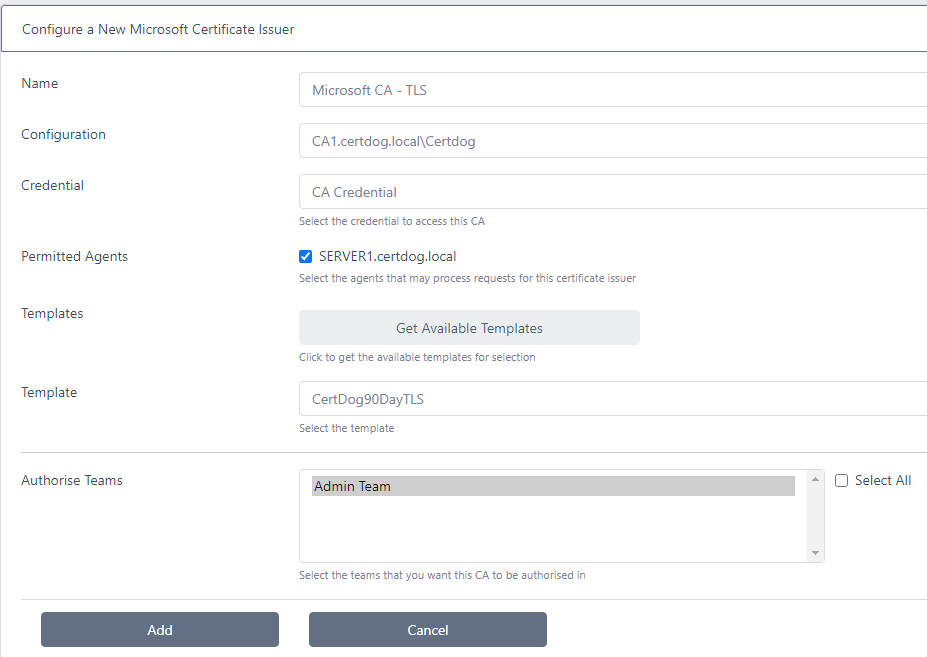
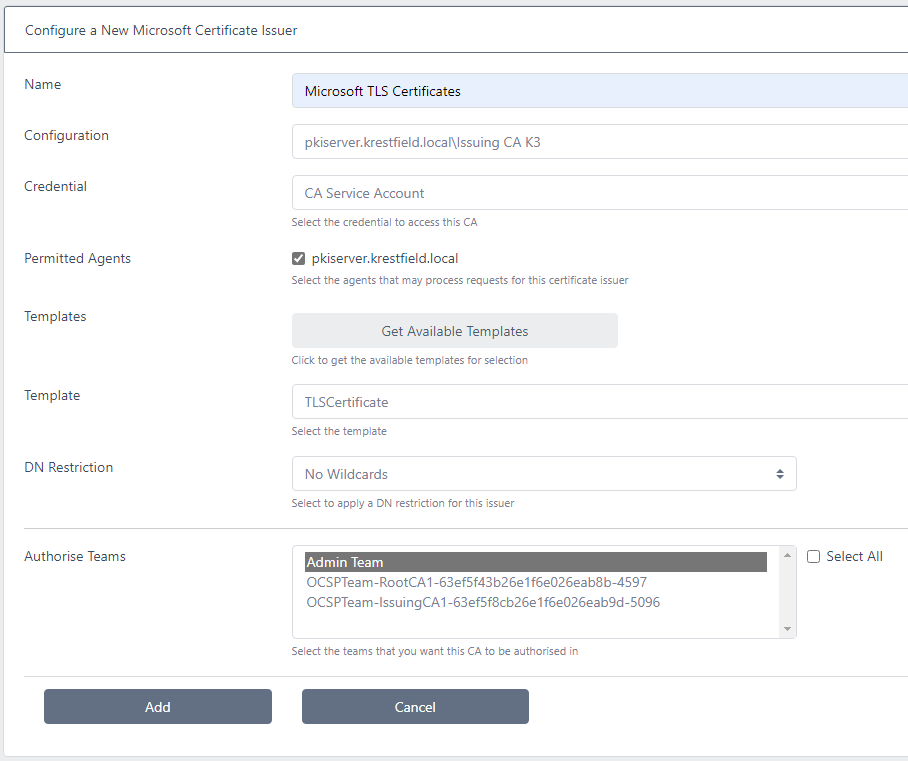
Added DN Restrictions documentation for version 1.9

diff --git a/certdog/errors v solutions.md b/certdog/errors v solutions.md
@@ -258,3 +258,103 @@ Checking the log file here ``[certdog install]\mongodb\mongod.log`` there is an 
 <u>Solution</u>
 
 The database is very sensitive to file formats. If the certificate PEM file (``[certdog install]\config\sslcerts\dbssl.pem``) was saved as UNICODE, the database will not read it correctly. Open the certificate file and save as UTF-8 using a suitable text editor
+
+
+
+<hr/>
+
+### Get "CA does not have any certificates configured" when requesting a certificate
+
+<u>Error Details</u>
+
+The error message ``Error Generating Certificate``, ``Unable to process certificate request as the CA specified: IssuingCA1 does not have any certificates configured``   is displayed when attempting to request a certificate from a Microsoft CA  
+
+Checking the log you see an entry such as:
+
+```
+There was an error whilst attempting to retrieve the CA certificates from the CA. Unable to obtain certificates from the CA. CCertAdmin::GetCAProperty: Access is denied. 0x80070005 (WIN32: 5 ERROR_ACCESS_DENIED)
+```
+
+which is reported from the agent when the Certificate Issuer is configured
+
+
+
+<u>Solution</u>
+
+This is a permissions issue. The account used by the agent does not have the correct permissions on the CA. To rectify, follow the guide here: https://krestfield.github.io/docs/pki/setting_adcs_template_permissions.html and also ensure that the account has **Issue and Manage Certificates** and **Request Certificates** permissions on the CA itself (managed via Properties)
+
+One the permissions have been updated, delete the issuer and re-create. Check the logs for errors
+
+
+
+<hr/>
+
+### Using a PKCS11 token gives CKR_TOKEN_NOT_PRESENT or CKR_DEVICE_REMOVED
+
+<u>Error Details</u>
+
+After creating a PKCS11 Key Store, attempting to create a CA gives an error stating CKR_TOKEN_NOT_PRESENT e.g.
+
+```
+There was an error initialising: Token Exception: PKCS#11 Token: Unable to login to Token. CKR_DEVICE_REMOVED
+```
+
+
+
+
+
+<u>Solution</u>
+
+This usually means that the hardware device (e.g. HSM) is not currently online or may not been configured correctly for this server  
+
+Start the server (or re-connect)  
+
+Run the vendor tools to confirm the device has been configured correctly and allows this client (where Certdog is running) to access it. Also ensure that the PKCS11 interface has been configured  
+
+Ensure any environment variables have been set e.g. for Utimaco the ``CS_PKCS11_R3_CFG`` environment variable must be set. If you set this ensure you restart the services to pick up the change
+
+If after making changes the error still occurs, stop and start the Krestfield CertDog Service as underlying processes can cache failed attempts and this cache can only be cleared via a restart
+
+
+
+<hr/>
+
+### DN Restrictions do not restriction wildards in Common Name
+
+<u>Error Details</u>
+
+Configure a DN restriction to Deny Wilcard Domains but domains such as *.org.com are still permitted in the Common Name (CN) field
+
+<u>Solution</u>
+
+Domains are not restricted in the Common Name field as this field is not checked to validate domains (for TLS certificates), rather this processing is carried out on the Subject Alternative Name extension
+
+The CA Browser Forum Baseline Requirements have required the presence of the Subject Alternative Name extension since 2012, and use of the subject common name was deprecated in RFC 2818
+
+
+<hr/>
+
+### Cannot add wildcard IP Address to SAN
+
+<u>Error Details</u>
+
+Attempting to add a wildcard IP address to a SAN (such as \*.168.100.57) gives an error such as ``IP Address is invalid``  
+
+It is neither possible to restrict wildcarded IP Addresses from the DN Restrictions
+
+<u>Solution</u>
+
+IP Addresses must be specified explicitly and cannot contain a wildcard  
+
+RFC2818 states
+
+```
+In some cases, the URI is specified as an IP address rather than a 
+hostname. In this case, the iPAddress subjectAltName must be present  
+in the certificate and must exactly match the IP in the URI.
+```
+
+Note RFC6125 mentions that IP Addresses are out of scope as they are not reliable identifiers for application services
+
+It is recommended that DNS domain names are used in place of IP addresses  
+

diff --git a/certdog/create_local_certificate_issuer.md b/certdog/create_local_certificate_issuer.md
@@ -19,7 +19,7 @@ Before creating a CA you must have configured a Key Store. See [here](keystores.
 ### 1. Create a Local CA Configuration  
    Select **Local CA** > **CA Configuration** from the menu and click **Add New CA**
 
-<img src=".\images\new-local-ca.png" alt="Local CA" style="zoom:80%;" />
+<img src=".\images\new-local-ca.png" alt="image-20230217134005647" style="zoom:67%;" />
 
 
 
@@ -99,7 +99,7 @@ Once the CA is configured, the above options (main details and policies) are fix
 
   E.g. http://server1.com/ocsp
 
-  Currently OCSP services can be provided by the Krestfield OCSP Responder. Later versions of Certdog will integrate the OCSP services
+  If the option Create OCSP Server is selected (see below) this field will be populated for you, but you can still adjust manually
 
 * **AIA Issuer Cert Locations**: Enter a URL (or list of URLs separated by commas). These locations will be included in the AIA (Authority Information Access) extension of all certificates issued by this CA and relate to where the CA certificate can be obtained
 
@@ -111,17 +111,19 @@ Once the CA is configured, the above options (main details and policies) are fix
 
 * **Generate CRLs**: If you want this CA to generate CRLs, enable this option
 
+* **CRL Filename**: Enter the name of the CRL filename e.g. rootca.crl
+
+* **CRL Lifetime**: This is the lifetime of the CRL i.e. the period between the *Effective date* and *Next update* values in the CRL
+
+* **CRL Generation Period**: This is how often you want the CRL to be generated. It must be less than the CRL Lifetime (set above). For example, if the lifetime were set to 2 days, you may set this to 1 day so there is always a 1 day overlap
+
 * **CRL Distribution Points**: Enter a URL (or list of URLs separated by commas). These locations will be included in the CRL Distribution Points extension of all certificates issued by this CA and relate to where the CRL issued by this CA can be obtained
 
   E.g. http://server1.com/crl/ca1.crl,http://server2.com/crl/ca1.crl
 
   This value will be pre-populated with a default URL hosted on the certdog server
 
-* **CRL Lifetime**: This is the lifetime of the CRL i.e. the period between the *Effective date* and *Next update* values in the CRL
-
-* **CRL Generation Period**: This is how often you want the CRL to be generated. It must be less than the CRL Lifetime (set above). For example, if the lifetime were set to 2 days, you may set this to 1 day so there is always a 1 day overlap
-
-* **CRL Filename**: This is the local location where the CRL file will be placed when generated. See the [Notes on the CRL Filename and CRL Distribution Points](#notes-on-the-crl-filename-and-crl-distribution-points) section below for more details
+* **CRL Local Path**: This is the local location where the CRL file will be placed when generated. See the [Notes on the CRL Filename and CRL Distribution Points](#notes-on-the-crl-filename-and-crl-distribution-points) section below for more details
 
 The above options (Extensions and CRL Generation) can be edited later if required)  
 
@@ -157,9 +159,11 @@ Click **Add New Issuer**
 
 From the drop down select **Local CA** and click **Next**
 
-<img src=".\images\new_localca_issuer3.png" alt="image-20210620124010018" style="zoom:67%;" />
+<img src=".\images\new_localca_issuer3.png" alt="image-20230217134433584" style="zoom:67%;" />
 
 Enter a **Name** and select the **Local Configuration** and **Certificate Profile** as just created from the drop downs  
+
+If required, select the DN Restriction. See [here](dn_restrictions.html) for more details on configuring DN restrictions
 
 Select the **Team**(s) that will be authorised to use this issuer. Members of these teams will be able to issue and revoke certificates  
 

diff --git a/certdog/dn_restrictions.md b/certdog/dn_restrictions.md
@@ -1,0 +1,71 @@
+---
+layout: default
+title: DN Restrictions
+parent: Certdog
+nav_order: 111
+---
+
+# Certdog - DN Restrictions
+
+
+
+> From version 1.9
+
+
+
+The requested DN (Distinguished Name) can be restricted such that only permitted DNs can be issued from a Certificate Issuer  
+
+A DN Restriction can be created which will include rules such as what domain names can be requested or which country codes are permitted etc. These restrictions can then be applied to one or more Certificate Issuers  
+
+
+
+To create a DN Restriction, click on the **DN Restrictions** menu item and click **Add New DN Restriction**  
+
+
+
+Enter a name for the restriction set  
+
+The following items are then available
+
+* **Deny Wildcard Domains**
+
+  * If checked domain names including '*' are not permitted in either the CN (Common Name) field or the DNS SAN (Subject Alternative Names) entries. For example, if this option is checked a DN of ``CN=*.krestfield.com`` would be rejected 
+
+* **Restrict Domain Names**
+
+  * If this item is checked then you may specify an *allow list* of domains. To do this click on the following panel:
+
+    <img src="./images/domain_restrict1.png" alt="image-20230216150139805" style="zoom:80%;" />
+
+  * Enter the domain you wish to be permitted and click **Add**:
+
+    <img src="./images/domain_restrict2.png" alt="image-20230216150246954" style="zoom:80%;" />
+
+  * You may add multiple domains
+
+  * If you wish to remove any, select them and click **Remove**
+
+  * The domains you entered will be allowed - no others will be permitted
+
+  * However, you may permit sub-domains of the specified domains. For example, if you specified ``krestfield.com`` as a permitted domain and wished to allow any sub-domains of ``krestfield.com`` (including ``site1.krestfield.com``, ``site2.krestfield.com`` etc.), check the **Allow Sub Domains** option. Note that the *Deny Wildcard Domains* option will still override wildcards in any sub-domains
+
+* **Restrict Organisations**
+
+  * If this option is selected you may enter permitted organisations
+  * Click the panel to add and remove organisations
+
+* **Restrict Countries**
+
+  * If this option is selected you may enter permitted country codes such as ``GB``, ``US`` and ``DE``
+  * Click the panel to add and remove countries
+
+* **Deny Organisational Unit**
+
+  * If this option is selected, the OU field will not be permitted
+  * This may be used to support the CA/B Forum ballot [SC47V2](https://cabforum.org/2021/06/30/ballot-sc47v2-sunset-subjectorganizationalunitname/)
+
+<img src="./images/domain_restrict3.png" alt="image-20230217115419198" style="zoom:80%;" />
+
+Once all items have been entered, click **Add**
+
+This restriction can now be applied to a Certificate Issuer

diff --git a/certdog/create_ejbca_issuer.md b/certdog/create_ejbca_issuer.md
@@ -11,7 +11,7 @@ nav_order: 7
 
 To configure certdog to be able to request certificates from EJBCA, the following is  required:
 
-* The Web Service option is enabled
+* The Web Service option is enabled in EJBCA
   * You can check this from Admin Web. Choose System Configuration then click the Protocol Configuration tab. the Web Service option should be *Enabled*
 * A User KeyStore
   * This is an end-entity certificate issued from EJBCA's current ManagementCA that is configured to have access to the RA administrative functions
@@ -157,7 +157,7 @@ From the certdog menu, select **Certificate Issuers** and select **Add New Issue
 
 For the *CA Type*, select **PrimeKey EJBCA** and click **Next**
 
-<img src=".\images\ejbca_config1.png" alt="image-20210205163525205" style="zoom:80%;" />
+<img src=".\images\ejbca_config1.png" alt="image-20230217140832416" style="zoom:80%;" />
 
 Enter the details as follows:
 
@@ -176,6 +176,10 @@ Enter the details as follows:
 * For EJBCA Issuing CA Name - this is the CA configured in EJBCA that you wish to issue certificates from
 
 * Then enter the **End Entity** and **Certificate Profile** names that you would have identified or created in steps 3 and 4 above
+
+* If you wish to restrict the DNs from certdog (this can also be done from EJBCA), select the DN Restriction here
+
+* Finally, select the Team(s) whose members will have access to this issuer
 
 * Click **Add**
 

diff --git a/certdog/create_adcs_certificate_issuer.md b/certdog/create_adcs_certificate_issuer.md
@@ -87,13 +87,15 @@ Click the **Get Available Templates** button. A request for templates will now b
 
 If successful, the templates will be displayed. Select from the drop-down which template you wish to configure with this issuer  
 
-<img src=".\images\msca-setup.png" alt="image-20210620095612254" style="zoom:67%;" />
+<img src=".\images\msca-setup.png" alt="image-20230217133447989" style="zoom:67%;" />
 
 For **Permitted Agents**, if running a single agent (i.e. the default) only one will be present and it will be selected. If you have multiple agents configured, select the agent(s) you wish to process the requests for this CA  
 
 Note that the agent must be *approved* for it to appear. If no agent is shown, select Agents from the menu and approve the required agent  
 
-Finally, select the **team** that will have access to this Certificate Issuer. All members of this team will be able to request and revoke certificates from this issuer
+Select the **team** that will have access to this Certificate Issuer. All members of this team will be able to request and revoke certificates from this issuer
+
+Finally, if you wish to apply any DN restrictions to this issuer, select the DN Restriction from the drop down list. See [here](dn_restrictions.html) for details on configuring DN Restrictions
 
 Click **Add**  
 

diff --git a/certdog/certificate_issuers.md b/certdog/certificate_issuers.md
@@ -1,0 +1,35 @@
+---
+layout: default
+title: Certificate Issuers
+parent: Certdog
+nav_order: 69
+---
+
+# Certificate Issuers
+
+
+
+Certificate Issuers are a combination of 
+
+* A Certificate Authority
+
+* A Certificate Profile (called a Certificate Template in Microsoft AD CS) 
+
+* And *optionally*, [DN Restrictions](dn_restrictions.html)
+
+
+
+Certificate Issuers enable you to combine these items in order to make certificate issuance simpler and to control what types of certificates can be issued  
+
+For example, you could create a Certificate Issuer that combines an Issuing CA with a TLS Profile (or template) with a DN Restriction set that only allow certain domain names. Then refer to this with a name - e.g. TLS Certificates  
+
+When you request a certificate you then select the *Organisational TLS Certificates* issuer and certificates will be issued with the profile selected from the CA specified. The requested DN must also conform to the DN Restriction's rules
+
+For more information on creating certificate issuers click one of the following links:
+
+* [Create a Local Certificate Issuer](create_local_certificate_issuer.html)
+* [Create a Microsoft AD CS Certificate Issuer](create_adcs_certificate_issuer.html)
+* [Create an EJBCA Certificate Issuer](create_ejbca_issuer.html)
+
+
+
